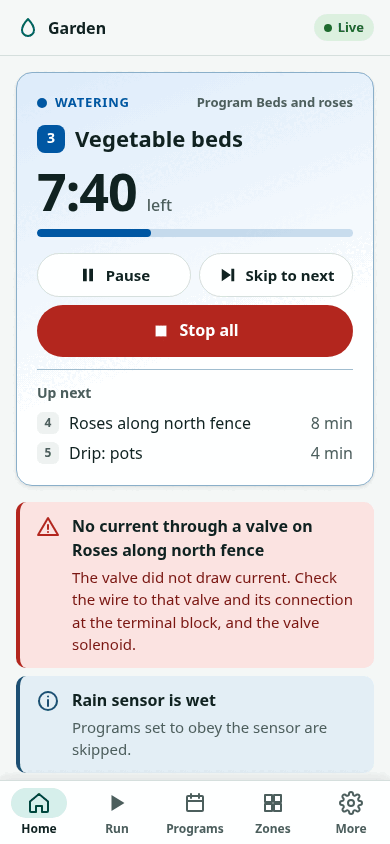
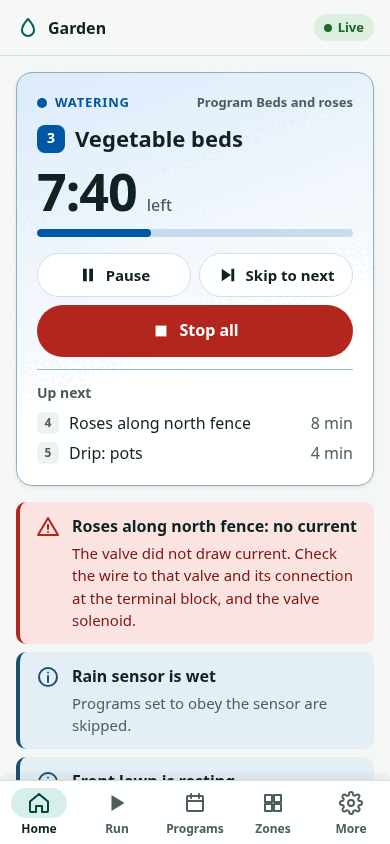
feat(fw): spare input settings and consistent wording in the web ui
Settings, Sensors gains the spare input: connected, contact and whether
it holds programs like the rain sensor, with the mock, an end-to-end
test and screenshots. Fault titles match zf/fault_text.hpp (checked by
a unit test that reads the header) and name the zone as the display
does. The setup-code texts point to Show setup code on the display;
the re-provisioning text names Espressif's ESP BLE Provisioning app
and says what happens to watering.

Refs #6

diff --git a/firmware/zoneflow-fw/web/src/i18n/en.ts b/firmware/zoneflow-fw/web/src/i18n/en.ts
@@ -93,9 +93,9 @@ export const en = {
   welcome_intro: 'Three short steps: an admin password, the time zone, and your zones.',
   step_of: 'Step {n} of {total}',
   setup_code: 'Setup code',
-  setup_code_help: 'Ten characters, shown on the controller display (and on the serial console while it is being set up).',
+  setup_code_help: 'Ten characters. On the controller: Menu → Setup → Network → Show setup code, then hold the knob down for 3 seconds. The serial console also prints it while WiFi setup runs.',
   setup_code_bad: 'The setup code has 10 characters: letters A–Z and digits 2–9, without 0, 1, I or O.',
-  setup_code_wrong: 'That setup code is not right. Check the display.',
+  setup_code_wrong: 'That setup code is not right. Read it again on the controller: Menu → Setup → Network → Show setup code.',
   new_password: 'New admin password',
   new_password_help: '8 to 64 characters. Anyone with this password can control the valves.',
   confirm_password: 'Repeat the password',
@@ -165,43 +165,48 @@ export const en = {
   rain_delay_active: 'Rain delay until {when}',
   rain_delay_active_detail: 'Scheduled programs are skipped. Manual runs still work.',
   sensor_inhibit: 'Rain sensor is wet',
+  spare_inhibit: 'Spare input is active',
   sensor_inhibit_detail: 'Programs set to obey the sensor are skipped.',
   maintenance_on: 'Maintenance mode',
   maintenance_detail: 'An update or reset is running. All valves are closed and nothing can start.',
-  time_unset: 'The clock is not set',
+  time_unset: 'Clock not set',
   time_unset_detail: 'Scheduled programs do not run until the time is known. Connect the controller to the internet or set the time in Settings → Time.',
   zone_resting: '{zone} is resting',
   zone_resting_detail: 'It reached its maximum run time and must stay off for {time} more. This protects valves and wiring.',
   zone_locked: '{zone} is locked out',
-  current_blind: 'Valve current is not being measured',
+  current_blind: 'Valve current not measured',
   current_blind_detail: 'Zones still water, but open or shorted valves are not detected. If this stays, the board needs checking.',
 
   // faults: title + what to check
-  fault_zone_open_circuit: 'No current through a valve',
+  fault_zone_open_circuit: 'Valve drew no current',
+  fault_zone_open_circuit_zone: '{zone}: no current',
   fault_zone_open_circuit_check: 'The valve did not draw current. Check the wire to that valve and its connection at the terminal block, and the valve solenoid.',
-  fault_zone_over_current: 'Too much current through a valve',
+  fault_zone_over_current: 'Valve current too high',
+  fault_zone_over_current_zone: '{zone}: current too high',
   fault_zone_over_current_check: 'The valve drew more current than allowed and was switched off. Check for a damaged solenoid or water in a wire joint. If the valve is fine, raise its current limit in Zones.',
   fault_short_circuit: 'Short circuit',
+  fault_short_circuit_zone: '{zone}: short circuit',
   fault_short_circuit_check: 'Everything was switched off. Look for a cut or pinched valve wire, or a wire joint sitting in water. Fix it, then clear faults.',
-  fault_current_while_idle: 'Current with every valve off',
+  fault_current_while_idle: 'Current with all valves off',
   fault_current_while_idle_check: 'Current flows although all outputs are off. The output stage may be damaged. Disconnect the valves and have the board checked.',
-  fault_ac_lost: 'No 24 V AC power',
+  fault_ac_lost: 'No 24 V AC supply',
   fault_ac_lost_check: 'The valves have no power. Check that the transformer is plugged in and its wires are tight on the 24VAC terminals.',
-  fault_flow_without_zones: 'Water flowing with every valve closed',
+  fault_flow_without_zones: 'Water flows with all valves off',
   fault_flow_without_zones_check: 'The flow meter counts water although no zone is open. Look for a leak, a stuck valve, or someone using a tap on the same line.',
-  fault_config_invalid: 'The stored settings could not be read',
+  fault_config_invalid: 'Settings could not be read',
   fault_config_invalid_check: 'The controller is using default settings. Restore a backup or set it up again.',
-  fault_time_invalid: 'The clock is not set',
+  fault_time_invalid: 'Clock not set',
   fault_time_invalid_check: 'Connect the controller to the internet or set the time in Settings → Time. The clock battery may be flat.',
   fault_storage_error: 'Settings could not be saved',
   fault_storage_error_check: 'Writing to memory failed. Try again; if it keeps failing, the board needs checking.',
-  fault_master_locked_out: 'Master valve locked out',
+  fault_master_locked_out: 'Master valve locked',
   fault_master_locked_out_check: 'The master valve or pump relay had repeated current faults, so no zone can run. Check its wiring, then clear faults.',
-  fault_current_sense_unavailable: 'Valve current is not being measured',
+  fault_current_sense_unavailable: 'Valve current not measured',
   fault_current_sense_unavailable_check: 'Zones still water but faults are not detected. If it does not clear by itself, the board needs checking.',
-  fault_over_current_trip: 'Over-current protection tripped',
+  fault_over_current_trip: 'Protection tripped',
+  fault_over_current_trip_zone: '{zone}: protection tripped',
   fault_over_current_trip_check: 'The hardware switched every valve off for a moment; the other zones carry on. A zone that trips three times in a day stays off. Look for a short in the valve wiring, then clear faults.',
-  fault_keepalive_detector: 'Safety circuit failed its self-test',
+  fault_keepalive_detector: 'Safety circuit failed its test',
   fault_keepalive_detector_check: 'The circuit that switches the valves off when the controller stops did not pass its test, so nothing runs. The board needs repair. After the repair, confirm it on the controller (Faults, Repaired) or with POST /api/v1/faults/acknowledge-repair; clearing faults is not enough.',
   fault_output_expander: 'Valve driver not responding',
   fault_output_expander_check: 'The chip that drives the valves did not answer or did not read back what was written, so all valves were switched off. Clear faults to try again. If it comes back, the board needs checking.',
@@ -209,13 +214,14 @@ export const en = {
   fault_relay_welded_check: 'Current flowed while the valve relay should have been open: a welded relay contact or a bridged jumper. Nothing runs. The board needs checking.',
   fault_output_shorted: 'Valve output stuck on',
   fault_output_shorted_check: 'Current flowed with every valve off: an output on the board is shorted. The relay was opened and nothing runs. The board needs checking.',
-  fault_trip_latch_stuck: 'Over-current protection did not reset',
+  fault_trip_latch_stuck: 'Protection did not reset',
   fault_trip_latch_stuck_check: 'The protection stayed tripped after the valves were switched off, so nothing runs. Clear faults to try again. If it comes back, the board needs checking.',
   fault_sensor_supply: 'Sensor supply overloaded',
   fault_sensor_supply_check: 'The 5 V terminal for sensors is overloaded or too hot. Check the sensor wiring and that the sensors draw no more than 100 mA.',
-  fault_zone_dc_current: 'Valve current in one direction only',
+  fault_zone_dc_current: 'Valve current lopsided',
+  fault_zone_dc_current_zone: '{zone}: valve current lopsided',
   fault_zone_dc_current_check: 'The output that drives this valve conducts in one direction only and is failing. The zone was switched off. The board needs checking.',
-  fault_mains_signal: 'Mains timing signal wrong',
+  fault_mains_signal: 'Mains signal wrong',
   fault_mains_signal_check: 'The 24 V AC timing signal is not at mains frequency. Current readings may be off. If it does not clear by itself, the board needs checking.',
   fault_unknown: 'Fault: {code}',
   fault_unknown_check: 'See the troubleshooting guide.',
@@ -557,8 +563,16 @@ export const en = {
   master_enabled_help: 'Opens with every zone. Needs the MV terminal wired.',
   rain_enabled: 'Rain sensor connected',
   rain_contact: 'Rain sensor contact',
-  contact_nc: 'Normally closed (most sensors)',
+  contact_nc: 'Normally closed',
+  rain_contact_help: 'Most rain sensors are normally closed: the contact opens when wet.',
   contact_no: 'Normally open',
+  spare_enabled: 'Spare input connected',
+  spare_enabled_help: 'A dry contact between AUX and GND, for example a second rain sensor or a soil moisture switch.',
+  spare_contact: 'Spare input contact',
+  spare_function: 'What the spare input does',
+  spare_function_none: 'Show only',
+  spare_function_inhibit: 'Hold programs',
+  spare_function_help: 'Hold programs: while the input is active, programs set to skip when the rain sensor is wet are skipped, as if it were wet. Manual runs still work.',
   flow_enabled: 'Flow meter connected',
   flow_ppl: 'Pulses per litre',
   flow_ppl_help: 'From the flow meter’s data sheet.',
@@ -582,10 +596,10 @@ export const en = {
   signal_fair: 'Fair ({rssi} dBm)',
   signal_weak: 'Weak ({rssi} dBm)',
   net_reprovision: 'Change WiFi network',
-  net_reprovision_help: 'The controller restarts into WiFi setup. Use the ZoneFlow app (Bluetooth) or join the ZoneFlow-XXXX WiFi with the setup code. If no new network is set within 15 minutes it goes back to the current one. Watering continues on schedule meanwhile.',
+  net_reprovision_help: 'The controller restarts into WiFi setup. Use Espressif’s ESP BLE Provisioning app (Bluetooth), or join the ZoneFlow-XXXX WiFi with the setup code as its password. If no new network is set within 15 minutes, it goes back to the current one. A zone that is watering stops at the restart and is not resumed. Scheduled starts still run while setup waits, as long as the controller’s clock is set. The controller can start this too: Menu → Setup → Network → Set up WiFi.',
   net_reprovision_ble: 'Set up over Bluetooth',
   net_reprovision_softap: 'Set up over the controller’s own WiFi',
-  net_reprovision_confirm: 'Restart into WiFi setup? This page loses its connection until the controller is back on a network.',
+  net_reprovision_confirm: 'Restart into WiFi setup? Watering in progress stops. This page loses its connection until the controller is back on a network.',
   pw_change: 'Change password',
   pw_current: 'Current password',
   pw_new: 'New password',
@@ -652,7 +666,7 @@ export const en = {
   reboot_confirm: 'Restart the controller now? Watering in progress stops.',
   rebooting: 'Restarting… this page reconnects by itself.',
   factory_reset: 'Factory reset',
-  factory_reset_help: 'Erases settings, programs, WiFi, the admin password and the HTTPS certificate. The setup code on the display stays the same.',
+  factory_reset_help: 'Erases settings, programs, WiFi, the admin password and the HTTPS certificate. The setup code stays the same (on the controller: Menu → Setup → Network → Show setup code).',
   factory_reset_confirm: 'This erases everything on the controller. Type RESET to confirm.',
   factory_reset_word: 'RESET',
   type_to_confirm: 'Type {word}',

diff --git a/firmware/zoneflow-fw/web/src/screens/settings.tsx b/firmware/zoneflow-fw/web/src/screens/settings.tsx
@@ -250,6 +250,9 @@ function SensorsSection() {
         read={(c) => ({
           rain: c.sensors.rain.enabled,
           contact: c.sensors.rain.contact,
+          spare: c.sensors.spare.enabled,
+          spareContact: c.sensors.spare.contact,
+          spareFunction: c.sensors.spare.function,
           flow: c.sensors.flow.enabled,
           ppl: c.sensors.flow.pulses_per_litre,
           leak: c.sensors.flow.leak_threshold_lpm,
@@ -258,6 +261,9 @@ function SensorsSection() {
         write={(c, v) => {
           c.sensors.rain.enabled = v.rain;
           c.sensors.rain.contact = v.contact;
+          c.sensors.spare.enabled = v.spare;
+          c.sensors.spare.contact = v.spareContact;
+          c.sensors.spare.function = v.spareFunction;
           c.sensors.flow.enabled = v.flow;
           c.sensors.flow.pulses_per_litre = v.ppl;
           c.sensors.flow.leak_threshold_lpm = v.leak;
@@ -270,6 +276,7 @@ function SensorsSection() {
             {v.rain && (
               <Choice
                 label={t('rain_contact')}
+                help={t('rain_contact_help')}
                 value={v.contact}
                 onChange={(x) => set({ contact: x })}
                 options={[
@@ -277,6 +284,30 @@ function SensorsSection() {
                   { value: 'no', label: t('contact_no') },
                 ]}
               />
+            )}
+            <Switch label={t('spare_enabled')} help={t('spare_enabled_help')} checked={v.spare} onChange={(x) => set({ spare: x })} disabled={!signedIn.value} />
+            {v.spare && (
+              <>
+                <Choice
+                  label={t('spare_contact')}
+                  value={v.spareContact}
+                  onChange={(x) => set({ spareContact: x })}
+                  options={[
+                    { value: 'nc', label: t('contact_nc') },
+                    { value: 'no', label: t('contact_no') },
+                  ]}
+                />
+                <Choice
+                  label={t('spare_function')}
+                  help={t('spare_function_help')}
+                  value={v.spareFunction}
+                  onChange={(x) => set({ spareFunction: x })}
+                  options={[
+                    { value: 'none', label: t('spare_function_none') },
+                    { value: 'inhibit', label: t('spare_function_inhibit') },
+                  ]}
+                />
+              </>
             )}
             <Switch label={t('flow_enabled')} checked={v.flow} onChange={(x) => set({ flow: x })} disabled={!signedIn.value} />
             {v.flow && (

diff --git a/firmware/zoneflow-fw/web/src/state/alerts.ts b/firmware/zoneflow-fw/web/src/state/alerts.ts
@@ -26,6 +26,15 @@ export function faultTitle(code: string): string {
   return tk(`fault_${code}`, undefined, t('fault_unknown', { code }));
 }
 
+/** "Zone 3: no current" when the fault belongs to zones (or the master
+ * valve), the plain title otherwise. Same words as the display and ESPHome:
+ * zf/fault_text.hpp, checked by tests/unit/fault-text.test.ts. */
+export function faultTitleFor(code: string, where: string[]): string {
+  if (!where.length) return faultTitle(code);
+  const zone = where.join(', ');
+  return tk(`fault_${code}_zone`, { zone }, `${faultTitle(code)} ${t('fault_on_zone', { zone })}`);
+}
+
 export function faultCheck(code: string): string {
   return tk(`fault_${code}_check`, undefined, t('fault_unknown_check'));
 }
@@ -39,11 +48,10 @@ export function deriveAlerts(s: Status, zoneName: (id: number) => string, untilT
   for (const code of s.faults?.active ?? []) {
     if (code === 'time_invalid') continue; // shown below with its own wording
     const affected = zoneFaults.filter((z) => z.fault === code).map((z) => zoneName(z.zone ?? 0));
-    const where = affected.length ? ` ${t('fault_on_zone', { zone: affected.join(', ') })}` : '';
     out.push({
       id: `fault:${code}`,
       severity: WARNINGS.has(code) ? 'warning' : 'error',
-      title: faultTitle(code) + where,
+      title: faultTitleFor(code, affected),
       detail: faultCheck(code),
       // A keep-alive detector fault needs the repair confirmed; clearing faults does not clear it.
       clearable: !CONDITIONS.has(code) && !(code === 'keepalive_detector' && s.faults?.hardware?.repair_needed),
@@ -89,7 +97,9 @@ export function deriveAlerts(s: Status, zoneName: (id: number) => string, untilT
     });
   }
   if (s.inhibit?.sensor) {
-    out.push({ id: 'sensor', severity: 'info', title: t('sensor_inhibit'), detail: t('sensor_inhibit_detail') });
+    // The rain sensor, or the spare input set to hold programs like it.
+    const spare = !s.sensors?.rain?.active && !!s.sensors?.spare?.active;
+    out.push({ id: 'sensor', severity: 'info', title: t(spare ? 'spare_inhibit' : 'sensor_inhibit'), detail: t('sensor_inhibit_detail') });
   }
   for (const z of zones) {
     if (z.resting && (z.rest_remaining_s ?? 0) > 0) {

diff --git a/firmware/zoneflow-fw/web/tests/e2e/flows.spec.ts b/firmware/zoneflow-fw/web/tests/e2e/flows.spec.ts
@@ -124,7 +124,7 @@ test('a late refusal arrives on the stream as command_rejected', async ({ page, 
 test('faults are explained and cleared after confirmation', async ({ page, request }) => {
   await openSignedIn(page);
   await mock(request, 'fault', { code: 'zone_open_circuit', zone: 4 });
-  const alert = page.locator('.banner', { hasText: 'No current through a valve on Roses along north' });
+  const alert = page.locator('.banner', { hasText: 'Roses along north fence: no current' });
   await expect(alert).toContainText('Check the wire');
   await page.getByRole('button', { name: 'Clear faults' }).click();
   const dialog = page.getByRole('dialog', { name: 'Clear faults' });
@@ -327,6 +327,22 @@ test('history: grouped by day, summarised per zone, and live', async ({ page }) 
   await page.getByRole('button', { name: 'Stop all' }).first().click();
   await go(page, '/history');
   await expect(page.getByRole('region', { name: 'Today' })).toContainText('Back lawn watered (stopped)');
+  errs.check();
+});
+
+test('sensors: the spare input can hold programs like the rain sensor', async ({ page, request }) => {
+  const errs = watchErrors(page);
+  await openSignedIn(page, '/settings/sensors');
+  await page.getByRole('switch', { name: /Spare input connected/ }).check();
+  await expect(page.getByRole('radio', { name: 'Show only' })).toBeChecked();
+  await page.getByRole('radio', { name: 'Hold programs' }).check();
+  await page.getByRole('button', { name: 'Save' }).click();
+  await expect(page.getByText('Saved')).toBeVisible();
+  const cfg = await (await request.get('/api/v1/config')).json();
+  expect(cfg.sensors.spare).toMatchObject({ enabled: true, function: 'inhibit' });
+  await mock(request, 'set', { spare: true });
+  await go(page, '/');
+  await expect(page.locator('.banner', { hasText: 'Spare input is active' })).toBeVisible();
   errs.check();
 });
 

diff --git a/firmware/zoneflow-fw/web/tests/unit/fault-text.test.ts b/firmware/zoneflow-fw/web/tests/unit/fault-text.test.ts
@@ -1,0 +1,31 @@
+// The web UI names faults with the same words as the display, ESPHome and
+// the manual. The one table is zf_core's zf/fault_text.hpp; this test reads
+// it and holds src/i18n/en.ts to it.
+import { readFileSync } from 'node:fs';
+import { describe, expect, it } from 'vitest';
+import { en } from '../../src/i18n/en.ts';
+import { faultTitleFor } from '../../src/state/alerts.ts';
+
+const header = readFileSync(new URL('../../../components/zf_core/include/zf/fault_text.hpp', import.meta.url), 'utf8');
+const rows = [...header.matchAll(/X\((\w+), "([a-z_]+)", "([^"]+)", "([^"]*)"\)/g)].map((m) => ({ code: m[2]!, title: m[3]!, zoneTitle: m[4]! }));
+const table = en as Record<string, string>;
+
+describe('fault text', () => {
+  it('reads every row of the C++ table', () => {
+    const api = JSON.parse(readFileSync(new URL('../../../../../docs/firmware/openapi.json', import.meta.url), 'utf8'));
+    const codes: string[] = api.components.schemas.Faults.properties.active.items.enum;
+    expect(rows.map((r) => r.code).sort()).toEqual([...codes].sort());
+  });
+
+  it.each(rows)('$code: same title as zf/fault_text.hpp', ({ code, title, zoneTitle }) => {
+    expect(table[`fault_${code}`]).toBe(title);
+    if (zoneTitle) expect(table[`fault_${code}_zone`]).toBe(zoneTitle.replace('%s', '{zone}'));
+    else expect(table).not.toHaveProperty(`fault_${code}_zone`);
+  });
+
+  it('names the zone the way the display does', () => {
+    expect(faultTitleFor('zone_open_circuit', ['Roses'])).toBe('Roses: no current');
+    expect(faultTitleFor('zone_open_circuit', [])).toBe('Valve drew no current');
+    expect(faultTitleFor('ac_lost', [])).toBe('No 24 V AC supply');
+  });
+});

diff --git a/firmware/zoneflow-fw/web/src/components/ui.tsx b/firmware/zoneflow-fw/web/src/components/ui.tsx
@@ -171,11 +171,16 @@ export function Switch({ label, help, checked, onChange, disabled }: { label: Co
 }
 
 /** A choice of a few options as radio buttons styled as segments or chips. */
-export function Choice<T extends string | number>({ label, options, value, onChange, kind = 'segmented', hideLabel }: { label: string; options: { value: T; label: ComponentChildren; disabled?: boolean }[]; value: T | null; onChange: (v: T) => void; kind?: 'segmented' | 'chips'; hideLabel?: boolean }) {
+export function Choice<T extends string | number>({ label, help, options, value, onChange, kind = 'segmented', hideLabel }: { label: string; help?: string; options: { value: T; label: ComponentChildren; disabled?: boolean }[]; value: T | null; onChange: (v: T) => void; kind?: 'segmented' | 'chips'; hideLabel?: boolean }) {
   const name = useId();
   return (
-    <fieldset class={`choice choice-${kind}`}>
+    <fieldset class={`choice choice-${kind}`} aria-describedby={help ? `${name}-h` : undefined}>
       <legend class={hideLabel ? 'sr-only' : undefined}>{label}</legend>
+      {help && (
+        <small class="field-help" id={`${name}-h`}>
+          {help}
+        </small>
+      )}
       <div class="choice-items">
         {options.map((o) => (
           <label key={String(o.value)} class={o.value === value ? 'is-checked' : undefined}>

diff --git a/firmware/zoneflow-fw/web/src/screens/history.tsx b/firmware/zoneflow-fw/web/src/screens/history.tsx
@@ -7,7 +7,7 @@ import { call, type HistoryPage, type HistoryRecord } from '../api/client.ts';
 import { Banner, Button, Card, Empty, Field, PageTitle, Spinner } from '../components/ui.tsx';
 import { t, tk } from '../i18n/index.ts';
 import { formatDayLabel, formatDuration, formatNumber, formatTime } from '../lib/format.ts';
-import { faultTitle } from '../state/alerts.ts';
+import { faultTitleFor } from '../state/alerts.ts';
 import { errorText } from '../state/errors.ts';
 import { dropReasonText } from '../state/events.ts';
 import { deviceNow, eventLog, programs, timeZone, zoneLabel, zones } from '../state/store.ts';
@@ -49,7 +49,7 @@ export function describeRecord(r: HistoryRecord): { text: string; detail?: strin
       return { text: t('ev_run_dropped', { zone: zoneLabel(r.zone), reason: dropReasonText(r.reason) }), tone: 'warning' };
     case 'fault_raised':
     case 'fault_cleared': {
-      const f = faultTitle(r.code) + (r.zone != null ? ` (${zoneLabel(r.zone)})` : '');
+      const f = faultTitleFor(r.code, r.zone != null ? [zoneLabel(r.zone)] : []);
       return { text: t(r.type === 'fault_raised' ? 'ev_fault_raised' : 'ev_fault_cleared', { fault: f }), tone: r.type === 'fault_raised' ? 'error' : 'muted' };
     }
     case 'boot':

diff --git a/firmware/zoneflow-fw/web/tests/e2e/screenshots.spec.ts b/firmware/zoneflow-fw/web/tests/e2e/screenshots.spec.ts
@@ -82,8 +82,10 @@ for (const scheme of ['light', 'dark'] as const) {
         await shot(page, 'rain-delay');
         await go(page, '/more');
         await shot(page, 'more', true);
-        for (const s of ['device', 'time', 'watering', 'network', 'mqtt', 'security', 'backup', 'firmware', 'system']) {
+        for (const s of ['device', 'time', 'watering', 'sensors', 'network', 'mqtt', 'security', 'backup', 'firmware', 'system']) {
           await go(page, `/settings/${s}`);
+          // Show the spare input's choices (not saved).
+          if (s === 'sensors') await page.getByRole('switch', { name: /Spare input connected/ }).check();
           await page.waitForTimeout(200);
           await shot(page, `settings-${s}`, true);
         }

diff --git a/firmware/zoneflow-fw/web/mock/server.ts b/firmware/zoneflow-fw/web/mock/server.ts
@@ -778,6 +778,10 @@ async function control(req: IncomingMessage, res: ServerResponse, url: URL): Pro
         dev.sensors.rainActive = s['rain'];
         dev.emit('sensor_changed', { sensor: 'rain', active: s['rain'] });
       }
+      if (typeof s['spare'] === 'boolean') {
+        dev.sensors.spareActive = s['spare'];
+        dev.emit('sensor_changed', { sensor: 'spare', active: s['spare'] });
+      }
       if (typeof s['time_status'] === 'string') dev.timeStatus = s['time_status'] as 'unset';
       if (typeof s['rest_zone'] === 'number') dev.zones[s['rest_zone'] - 1]!.restMs = Number(s['rest_s'] ?? 900) * 1000;
       if (typeof s['rain_delay_h'] === 'number') dev.setRainDelay(dev.utc() + s['rain_delay_h'] * 3600);

diff --git a/firmware/zoneflow-fw/web/tests/unit/alerts.test.ts b/firmware/zoneflow-fw/web/tests/unit/alerts.test.ts
@@ -13,7 +13,7 @@ describe('deriveAlerts', () => {
   it('explains a zone fault in plain language, names the zone and offers clear', () => {
     const s = { ...baseStatus(), faults: { active: ['zone_open_circuit' as const], zones: [{ zone: 3, fault: 'zone_open_circuit', locked_out: true }] } };
     const [a] = deriveAlerts(s, name, until);
-    expect(a?.title).toBe('No current through a valve on Zone 3');
+    expect(a?.title).toBe('Zone 3: no current');
     expect(a?.detail).toMatch(/Check the wire/);
     expect(a?.clearable).toBe(true);
     expect(a?.severity).toBe('error');

diff --git a/firmware/zoneflow-fw/web/tests/unit/history.test.ts b/firmware/zoneflow-fw/web/tests/unit/history.test.ts
@@ -33,7 +33,7 @@ describe('history', () => {
 
   it('describes faults, restarts and updates in plain words', () => {
     expect(describeRecord({ id: 1, utc: 1, time_valid: true, type: 'fault_raised', zone: 2, code: 'zone_open_circuit' }).text).toBe(
-      'Fault: No current through a valve (Zone 2)',
+      'Fault: Zone 2: no current',
     );
     const boot = describeRecord({ id: 2, utc: 1, time_valid: true, type: 'boot', reset_reason: 'brownout' });
     expect(boot.detail).toBe('After the supply voltage dropped');
